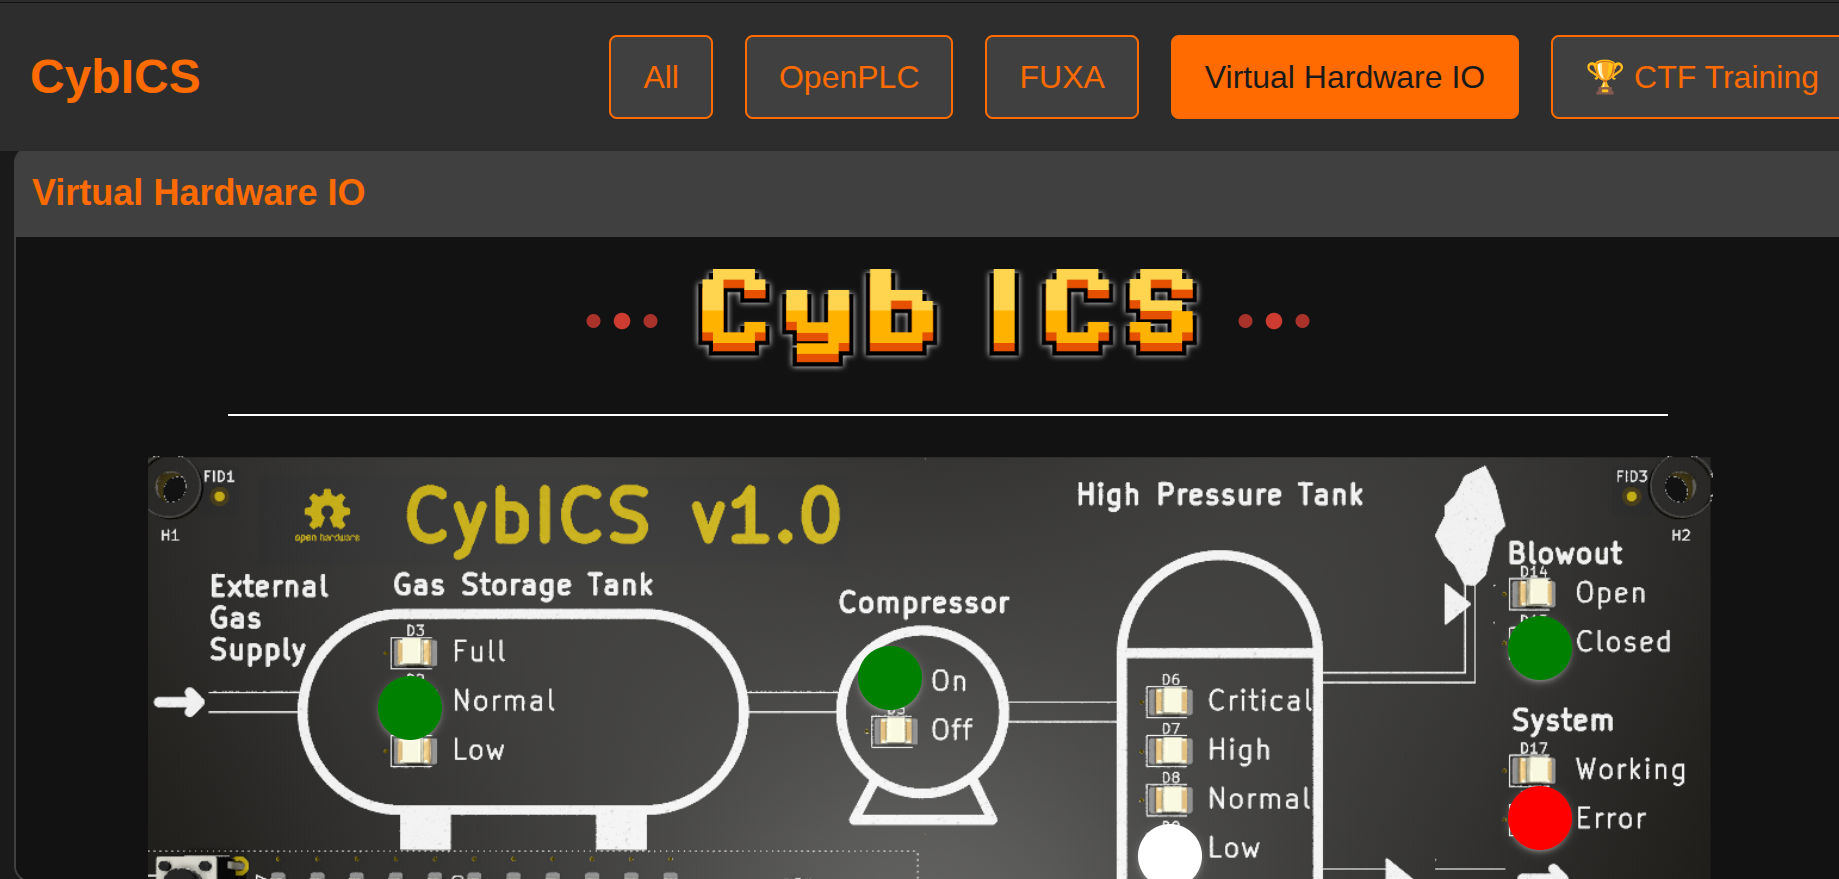
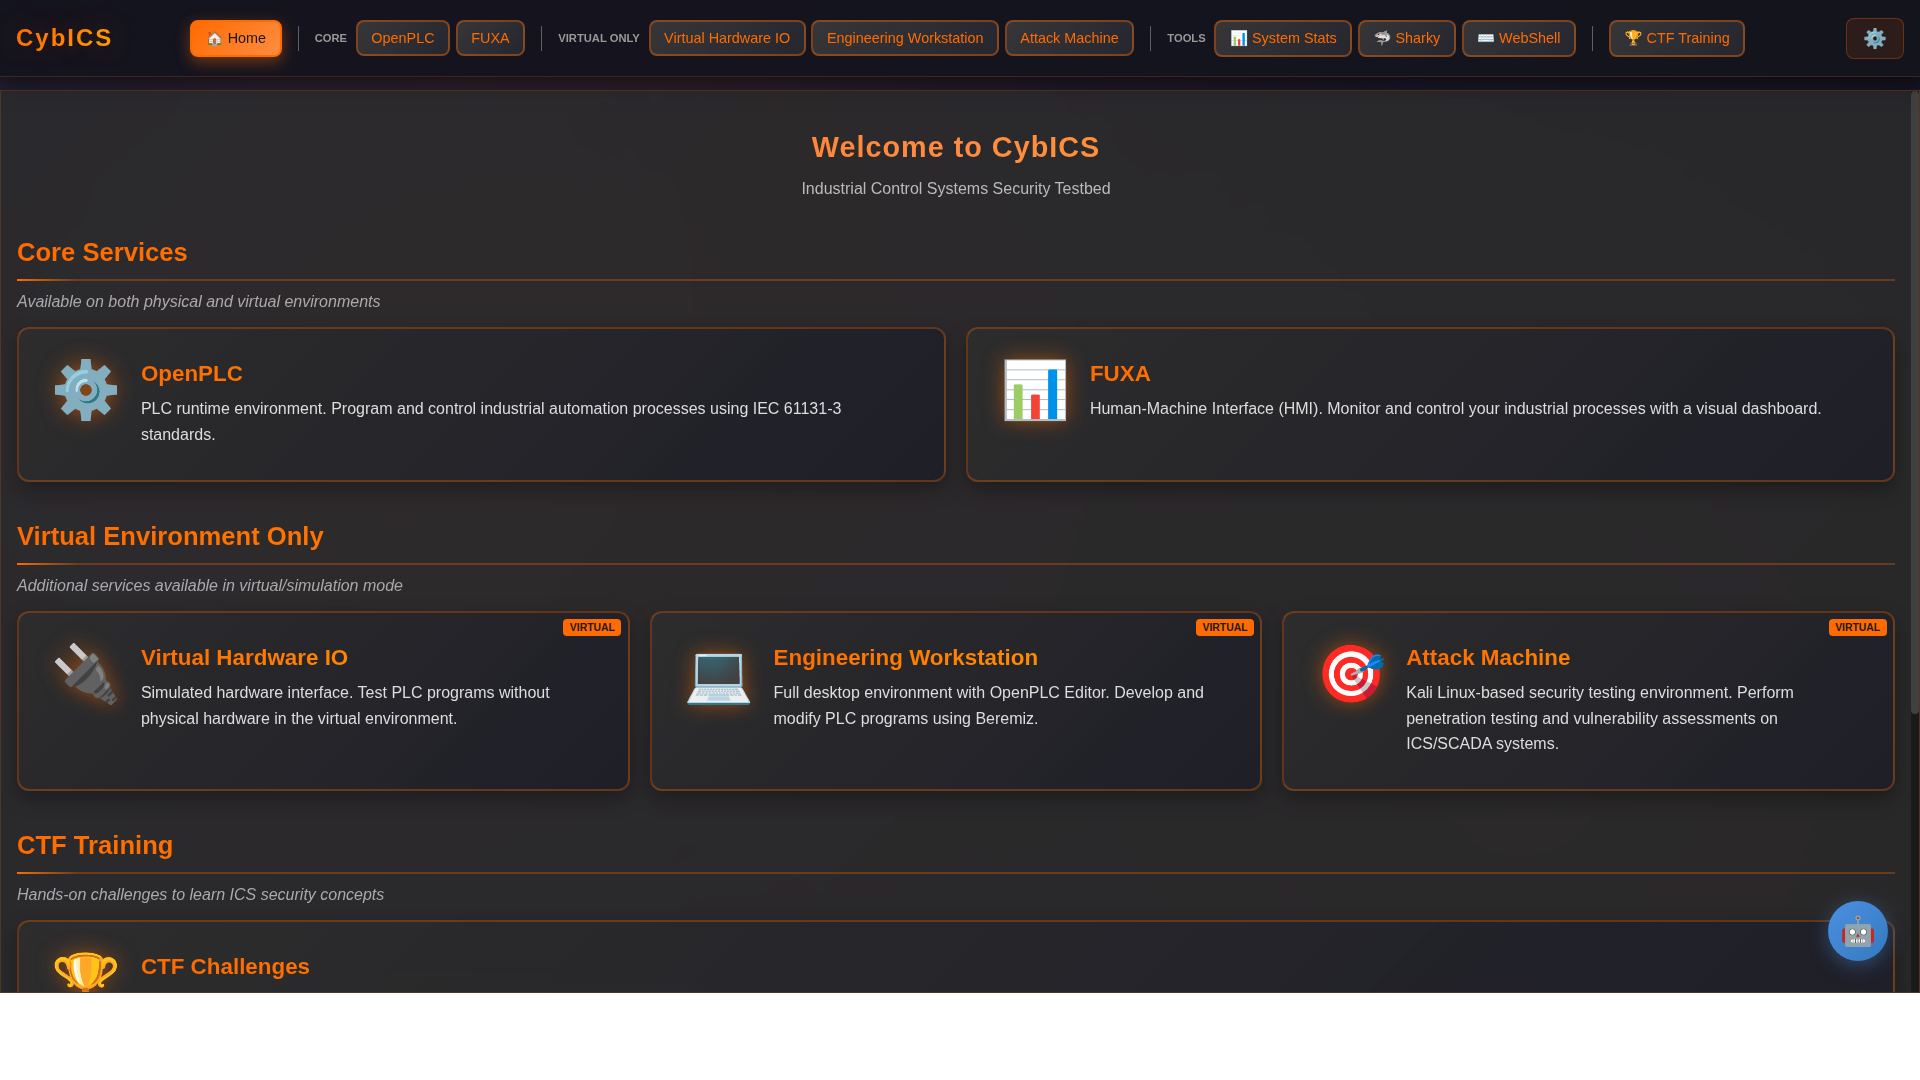
Update documentation with cybics.sh usage and new screenshots
- Completely rewrote doc/README.md to reflect current implementation
- Added cybics.sh quick start guide and command reference
- Documented all three startup modes (minimal, full, withoutai)
- Updated service URLs table with all available services
- Added new screenshots for all virtual services:
  - Landing page with AI agent and new design
  - HWIO 3D visualization
  - OpenPLC runtime interface
  - FUXA SCADA/HMI interface
  - Engineering Workstation VNC environment
  - Attack Machine Kali environment
- Added comprehensive troubleshooting section
- Updated prerequisites and system requirements
- Documented AI Agent features and availability per mode

🤖 Generated with [Claude Code](https://claude.com/claude-code)

diff --git a/doc/README.md b/doc/README.md
@@ -1,14 +1,208 @@
-# Getting Started
-There are two ways to interact with the CybICS learning platform. The first and preferred method is through the physical hardware.
-Alternatively, you can run the platform in a virtual environment using Docker Compose.
+# CybICS Getting Started Guide
 
-## Using the Hardware (preferred method)
+There are two ways to interact with the CybICS learning platform. The first and preferred method is through the physical hardware. Alternatively, you can run the platform in a virtual environment using Docker Compose.
+
+## Virtual Environment
+
+The virtual environment provides a complete cybersecurity testbed for Industrial Control Systems running entirely in Docker containers.
+
+### Prerequisites
+
+- Docker (version 20.10 or later)
+- Docker Compose (version 2.0 or later)
+- At least 4GB of available RAM
+- At least 10GB of free disk space
+
+### Quick Start with cybics.sh
+
+The easiest way to run CybICS is using the `cybics.sh` management script located in the repository root.
+
+#### Starting CybICS
+
+```bash
+./cybics.sh start
+```
+
+This will start all CybICS services in full mode by default.
+
+#### Startup Modes
+
+CybICS supports three different startup modes to match your needs:
+
+1. **Full Mode** (default) - All services including AI Agent, Engineering Workstation, and Attack Machine:
+   ```bash
+   ./cybics.sh start --mode full
+   # or simply
+   ./cybics.sh start
+   ```
+
+2. **Minimal Mode** - Core services only (OpenPLC, FUXA, HWIO, OPC UA, S7, Landing):
+   ```bash
+   ./cybics.sh start --mode minimal
+   ```
+
+3. **Without AI Mode** - All services except the AI Agent:
+   ```bash
+   ./cybics.sh start --mode withoutai
+   ```
+
+#### Other Commands
+
+```bash
+./cybics.sh stop              # Stop all services
+./cybics.sh restart           # Restart all services
+./cybics.sh status            # Show status of all services
+./cybics.sh logs              # Show logs from all services
+./cybics.sh clean             # Remove all containers, images, and volumes
+./cybics.sh compose ps        # Direct docker compose commands
+```
+
+#### Specifying Version
+
+You can specify a specific Docker image version:
+
+```bash
+./cybics.sh start --version 1.0.0
+./cybics.sh start --mode full --version latest
+```
+
+### Alternative: Manual Docker Compose
+
+If you prefer to use Docker Compose directly:
+
+1. Prepare the environment:
+   ```bash
+   .devcontainer/prepare-env.sh
+   ```
+
+2. Navigate to the virtual environment directory:
+   ```bash
+   cd .devcontainer/virtual
+   ```
+
+3. Start the containers:
+   ```bash
+   docker compose up -d
+   ```
+
+4. Stop the containers:
+   ```bash
+   docker compose down
+   ```
+
+### Accessing CybICS Services
+
+Once started, the following services are available:
+
+| Service | URL | Description |
+|---------|-----|-------------|
+| **Landing Page** | [http://localhost:80](http://localhost:80) | Main dashboard with access to all services |
+| **HWIO (3D Visualization)** | [http://localhost:8090](http://localhost:8090) | 3D visualization of the physical process |
+| **OpenPLC** | [http://localhost:8080](http://localhost:8080) | PLC programming and runtime environment |
+| **FUXA HMI** | [http://localhost:1881](http://localhost:1881) | SCADA/HMI interface |
+| **Engineering Workstation** | [http://localhost:6080/vnc.html](http://localhost:6080/vnc.html) | VNC desktop environment (full/withoutai modes) |
+| **Attack Machine** | [http://localhost:6081/vnc.html](http://localhost:6081/vnc.html) | Kali-based attack environment (full/withoutai modes) |
+| **OPC UA Server** | opc.tcp://localhost:4840 | OPC UA protocol endpoint |
+| **S7 Communication** | localhost:102 | Siemens S7 protocol endpoint |
+
+**Note:** Engineering Workstation and Attack Machine are only available in `full` and `withoutai` modes.
+
+### Landing Page
+
+The landing page serves as the central hub for accessing all CybICS services. It features:
+
+- **Interactive Service Cards**: Quick access to all running services
+- **Detach Mode**: Open services in separate windows for multi-monitor setups
+- **System Statistics**: Real-time monitoring of container status
+- **AI Agent** (full mode only): Interactive AI assistant for CybICS questions
+- **Theme Support**: Light and dark mode
+
+<table align="center"><tr><td align="center" width="9999">
+<img src="pics/landing.png" width=99%></img>
+</td></tr></table>
+
+### HWIO - 3D Physical Process Visualization
+
+HWIO provides a 3D visualization of the physical process, simulating the same behavior as the physical PCB hardware.
+
+<table align="center"><tr><td align="center" width="9999">
+<img src="pics/hwio.png" width=80%></img>
+</td></tr></table>
+
+### OpenPLC Runtime
+
+OpenPLC is an open-source PLC that allows you to program industrial controllers using standard IEC 61131-3 languages.
+
+<table align="center"><tr><td align="center" width="9999">
+<img src="pics/openplc.png" width=80%></img>
+</td></tr></table>
+
+**Default credentials:**
+- Username: `openplc`
+- Password: `openplc`
+
+### FUXA SCADA/HMI
+
+FUXA provides a web-based SCADA/HMI interface for monitoring and controlling the industrial process.
+
+<table align="center"><tr><td align="center" width="9999">
+<img src="pics/fuxa.png" width=80%></img>
+</td></tr></table>
+
+### Engineering Workstation
+
+A full desktop environment with engineering tools pre-installed. Access via VNC through your web browser.
+
+<table align="center"><tr><td align="center" width="9999">
+<img src="pics/engineeringws.png" width=80%></img>
+</td></tr></table>
+
+**Available in:** Full mode, Without AI mode
+
+### Attack Machine
+
+A Kali Linux-based environment with cybersecurity tools for penetration testing and security research.
+
+<table align="center"><tr><td align="center" width="9999">
+<img src="pics/attackmachine.png" width=80%></img>
+</td></tr></table>
+
+**Available in:** Full mode, Without AI mode
+
+### CybICS AI Agent
+
+The AI Agent provides an interactive assistant that can answer questions about CybICS, ICS security, and help with training scenarios.
+
+**Available in:** Full mode only
+
+**Features:**
+- Natural language question answering
+- Knowledge base with 40+ training documents
+- Context-aware responses about CybICS platform
+- Resizable chat interface
+- Session history preservation
+
+## VS Code / Codium Devcontainer (Alternative)
+
+VS Code or Codium is required for this method.
+
+1. Open VS Code/Codium in the CybICS repository
+2. When prompted, select "Reopen in Container"
+3. Choose "CybICS-virtual" from the devcontainer options
+
+<table align="center"><tr><td align="center" width="9999">
+<img src="pics/virtualCode.png" width=99%></img>
+</td></tr></table>
+
+## Using the Physical Hardware
+
 For this setup, the hardware must be fully configured and operational.
 See [Hardware](../hardware/README.md) and [Software](../software/README.md).
 
 ### The PCB
-The PCB (Printed Circuit Board) for the CybICS platform serves as the essential backbone, orchestrating the integration of all components necessary for the platform’s operation.
-More than just a hardware foundation, the PCB acts as a dynamic interface that mimics the behavior of physical processes, while also simulating both sensors and actuators. 
+
+The PCB (Printed Circuit Board) for the CybICS platform serves as the essential backbone, orchestrating the integration of all components necessary for the platform's operation.
+More than just a hardware foundation, the PCB acts as a dynamic interface that mimics the behavior of physical processes, while also simulating both sensors and actuators.
 
 The hardware is powered through a USB-C connector, ensuring efficient and reliable power delivery.
 A dedicated reset button allows for easy resetting of the physical process (microcontroller).
@@ -20,63 +214,56 @@ Additionally, a separate button enables switching between different display mode
 </td></tr></table>
 
 ### Connecting to the Testbed
+
 To connect to the testbed, use the built-in Wi-Fi functionality.
 After powering on, the device takes approximately one minute to boot and initialize the process.
 
-In AP mode, the CybICS platform creates a network named "cybics-XXXXXX," secured with the password 1234567890. 
+In AP mode, the CybICS platform creates a network named "cybics-XXXXXX," secured with the password `1234567890`.
 Alternatively, in station mode, the device attempts to join an existing network named "cybics" using the same password.
 
-### Access the Testbed
+### Access the Hardware Testbed
+
 First **connect in AP mode** to access the different applications running on the system.
 
-## Virtual Environment
-As a requirement docker and docker compose needs to be setup on the system.
+The same web interfaces are available as in the virtual environment, but accessed through the device's IP address instead of localhost.
 
-### Option 1: Run within VS Code / Codium Devcontainer
-VS Code oder Codium is required for this method.
-After starting VS Code / Codium, you are asked to open the git project in a container.
-By selecting CybICS-Virtual, the virtual CybICS is started.
+## Troubleshooting
 
-<table align="center"><tr><td align="center" width="9999">
-<img src="pics/virtualCode.png" width=99%></img>
-</td></tr></table>
+### Services Not Starting
 
-### Option 2: Run within Terminal
-Prepare the environment with:
-```sh
-.devcontainer/prepare-env.sh
+If services fail to start, check:
+
+1. Docker is running: `docker info`
+2. No port conflicts: `sudo netstat -tulpn | grep -E ':(80|8080|8090|1881|6080|6081)'`
+3. Sufficient system resources: `docker stats`
+4. Docker logs: `./cybics.sh logs`
+
+### Network Conflicts
+
+If you encounter network overlap errors:
+
+```bash
+./cybics.sh stop
+docker network prune
+./cybics.sh start
 ```
 
-Switch to the location of the docker compose file.
-```sh
-cd CybICS/.devcontainer/virtual
-```
+The script will automatically detect and help resolve network conflicts.
 
-Start the containers.
-```sh
-sudo docker compose up
-```
+### AI Agent Not Responding
 
-The output should look like the following:
-<table align="center"><tr><td align="center" width="9999">
-<img src="pics/dockerCompose.png" width=99%></img>
-</td></tr></table>
+If the AI Agent shows as unavailable:
 
-With CTRL+C, the containers can be stopped again.
+1. Check the agent container is running: `docker ps | grep cybicsagent`
+2. Check agent logs: `docker logs virtual-cybicsagent-1`
+3. Restart in full mode: `./cybics.sh restart --mode full`
 
+## Next Steps
 
-### Access to the Virtual CybICS
-The applications provide a webinterface for monitoring and configuration.
+- Explore the [Training Modules](../training/) for hands-on cybersecurity scenarios
+- Review the [Software Documentation](../software/) for detailed component information
+- Join our community and contribute on [GitHub](https://github.com/hsainnos/CybICS)
 
-| What              | link/url                                         |
-|-------------------|--------------------------------------------------|
-| Physical process  | [http://localhost/](http://localhost/)           |
-| OpenPLC           | [http://localhost:8080/](http://localhost:8080/) |
-| FUXA HMI          | [http://localhost:1881/](http://localhost:1881/) |
+## License
 
-
-Example of the virtual physical process (same represenation as the PCB).
-<table align="center"><tr><td align="center" width="9999">
-<img src="pics/virtual.png" width=80%></img>
-</td></tr></table>
-
+CybICS is open-source software licensed under the MIT License.
